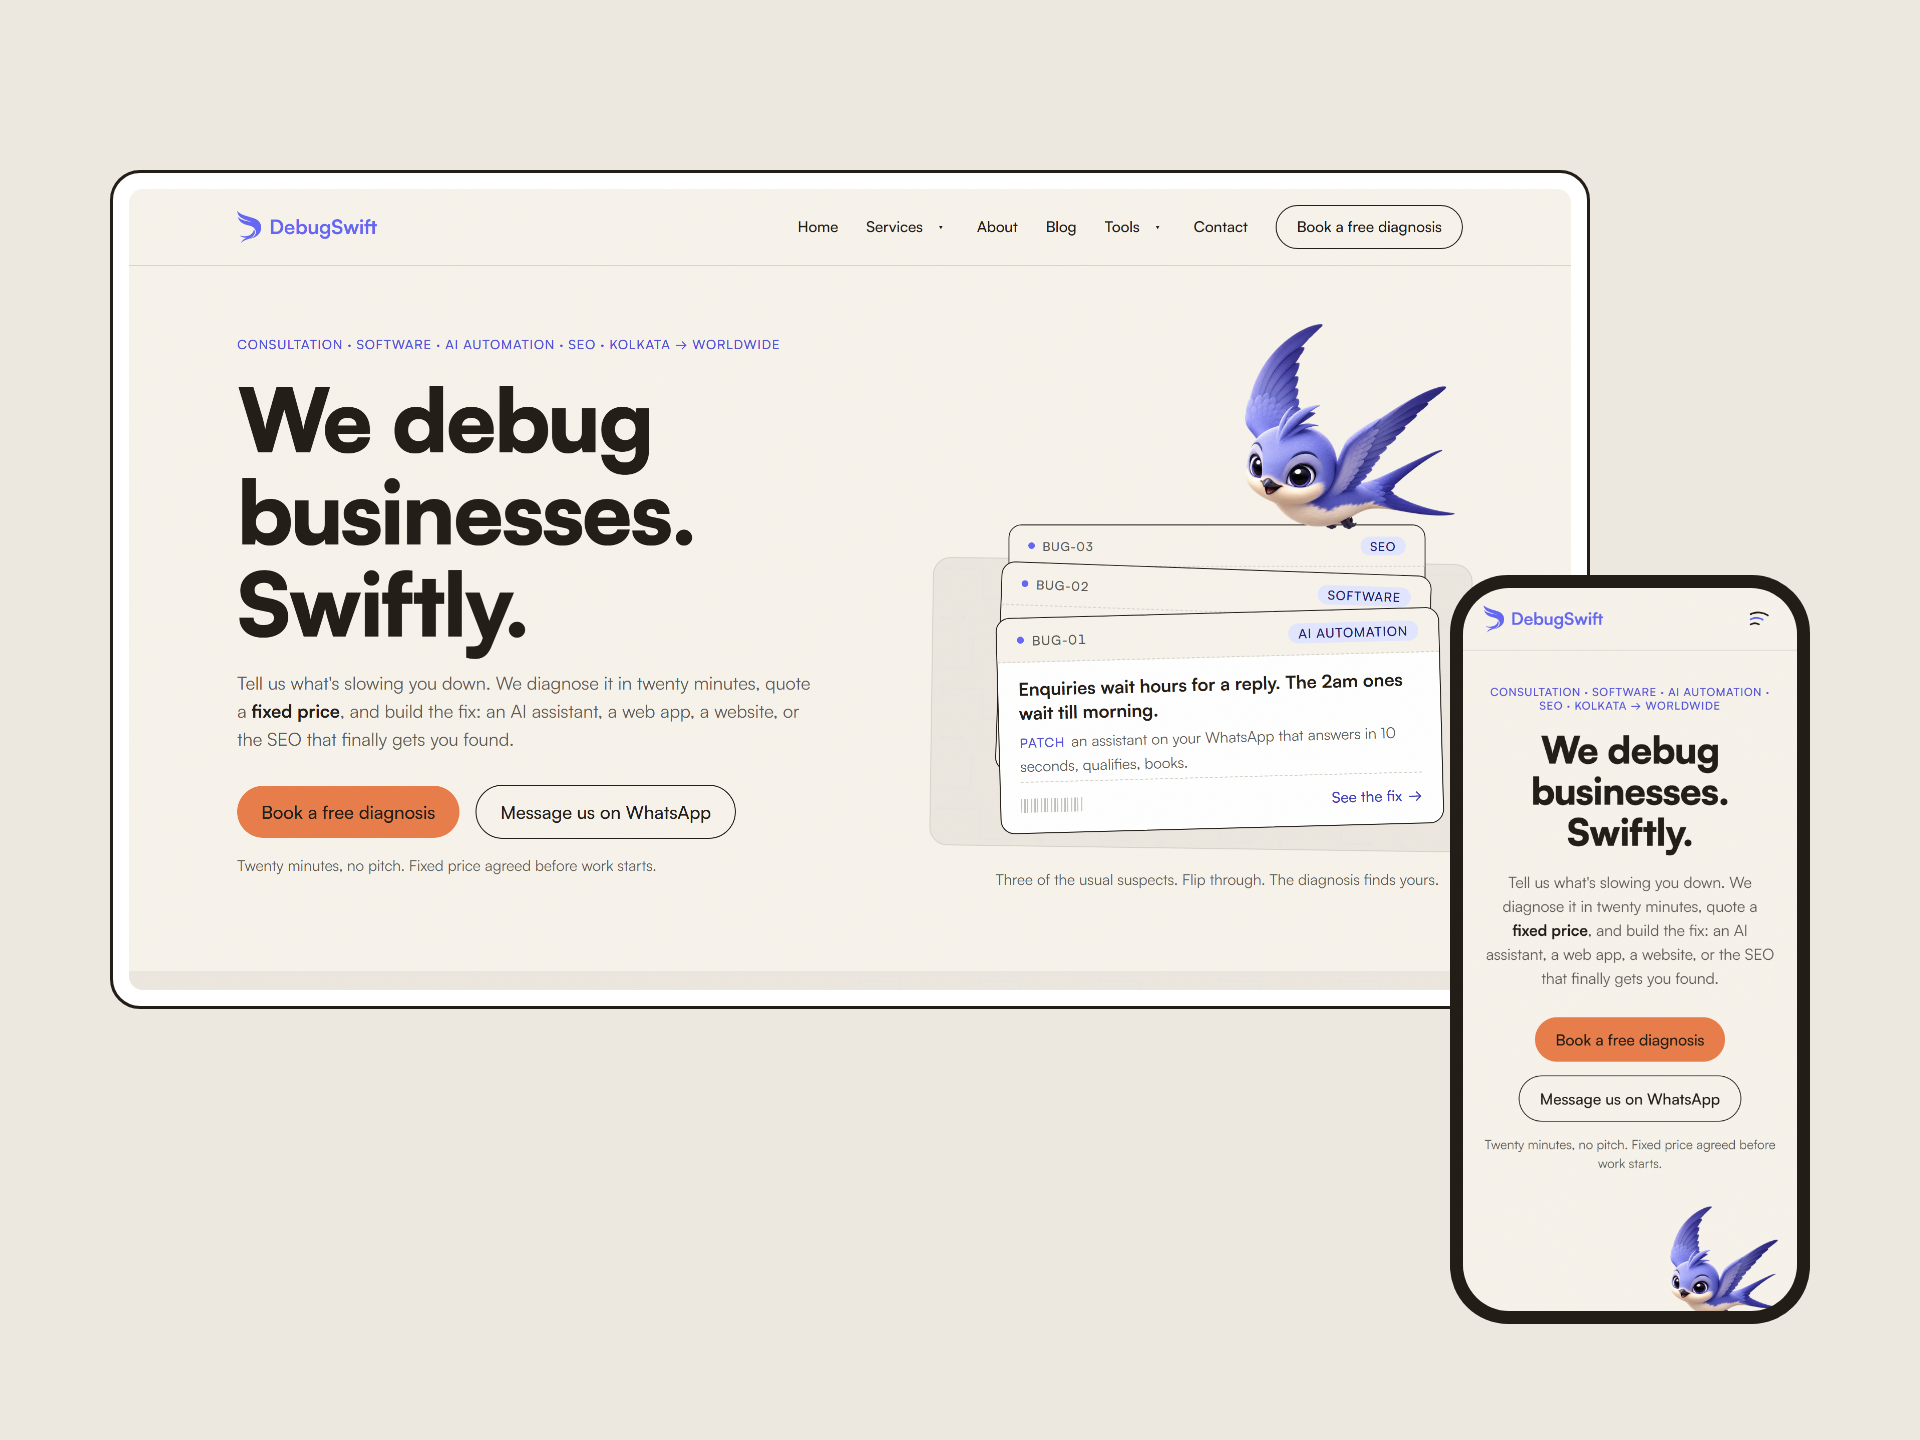
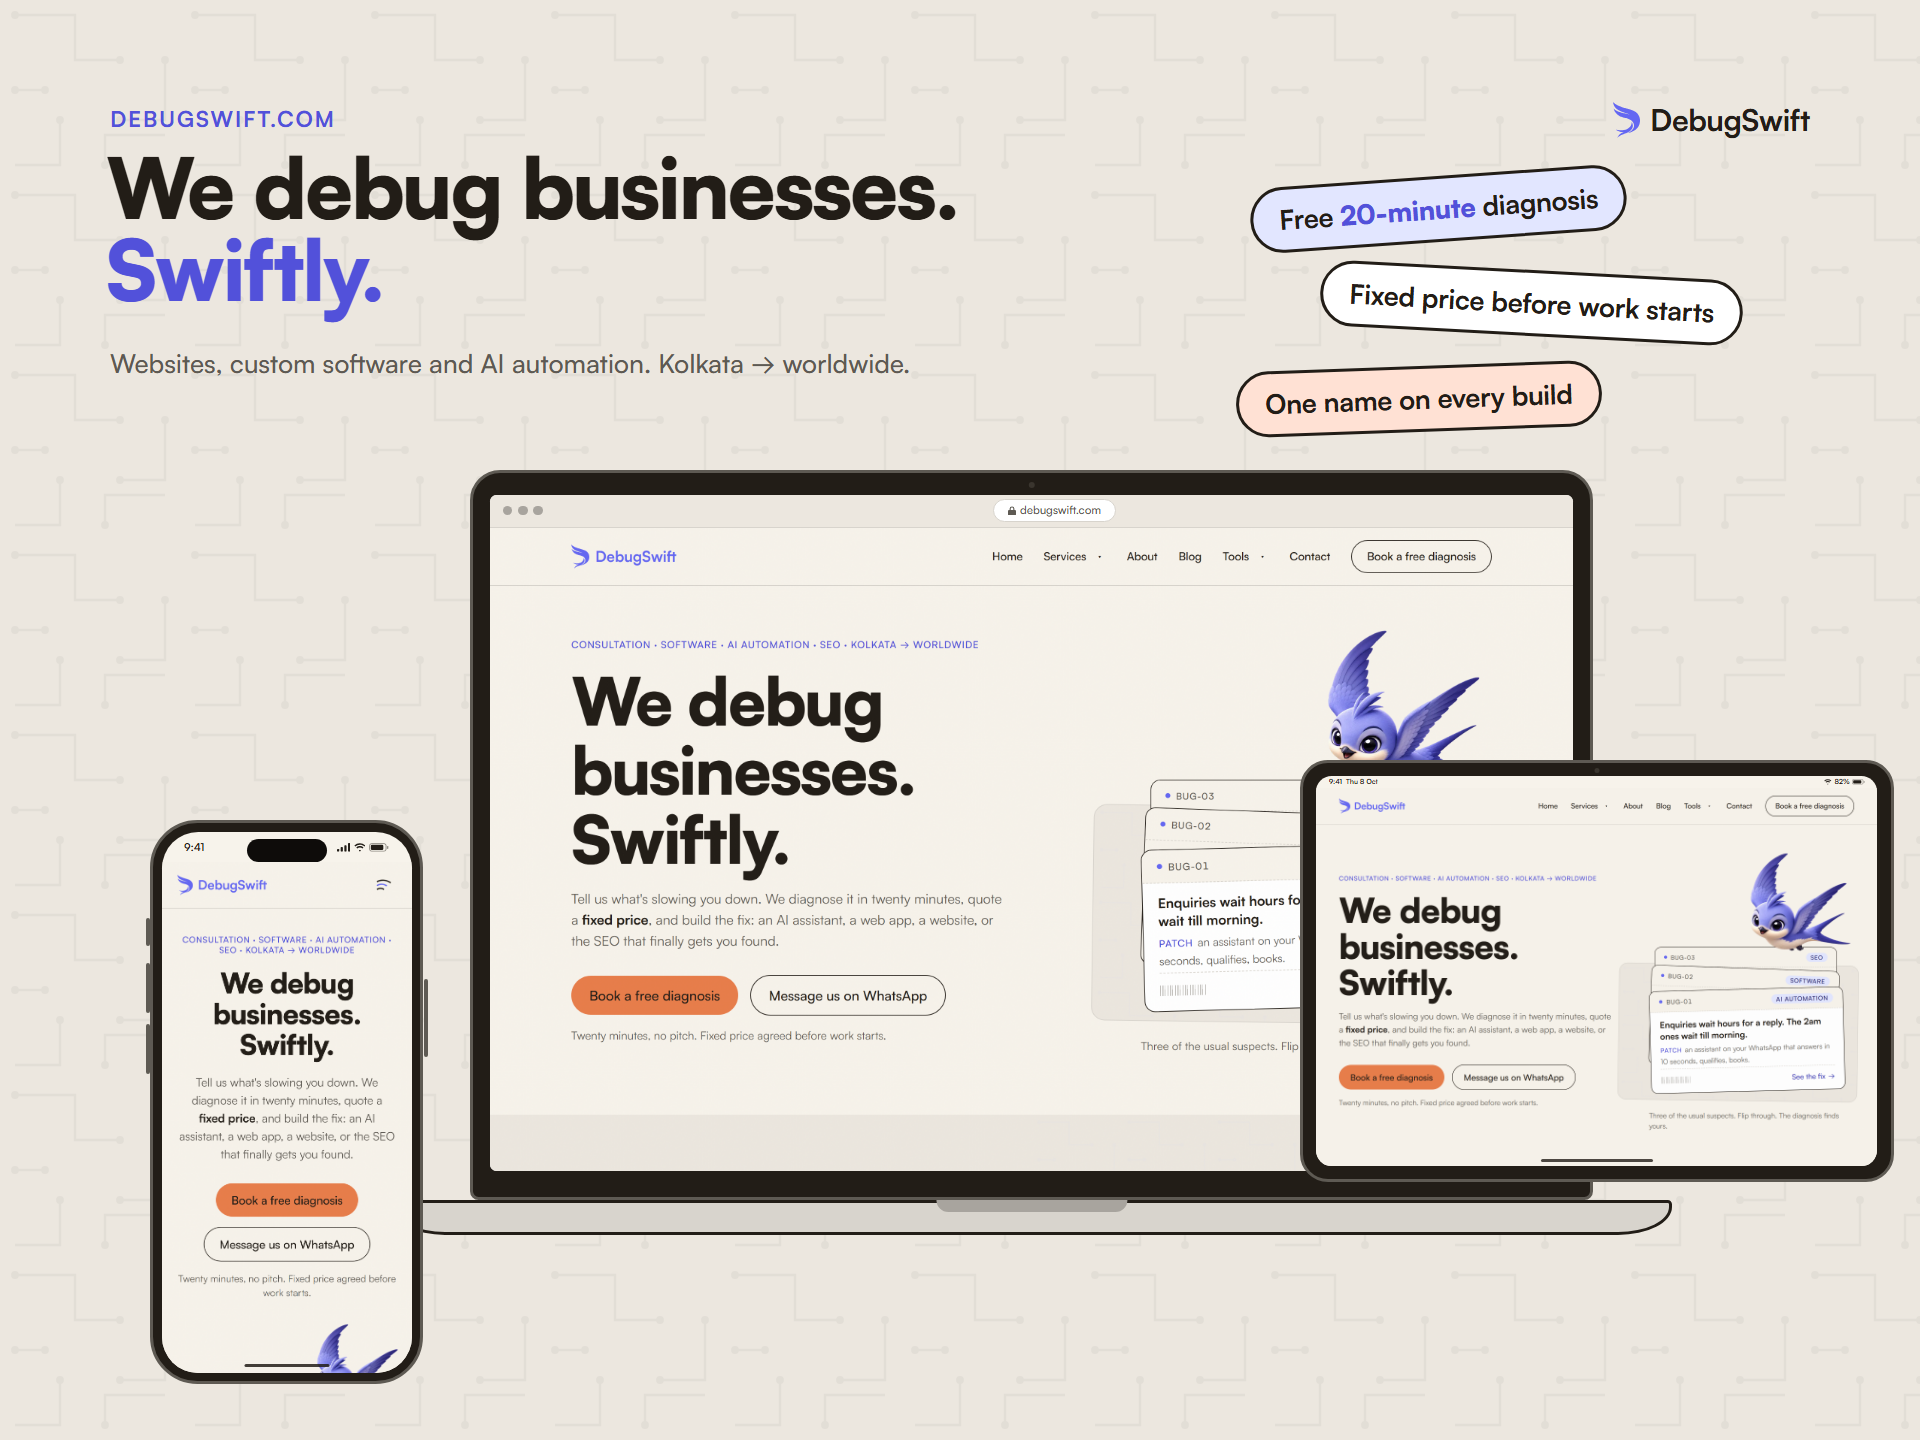
Showcase: laptop, tablet and phone, with realistic device detail

Changed region(s): [[0.0312, 0.0625, 1.0, 0.9688], [0.8438, 0.0625, 0.9375, 0.0938]]

diff --git a/README.md b/README.md
@@ -6,7 +6,7 @@
 
 The website of DebugSwift, a founder-led technology agency in Kolkata. We understand a business, find the problem costing it most, and fix it with technology.
 
-![debugswift.com on desktop and phone](assets/showcase.png)
+![debugswift.com on a laptop, a tablet and a phone](assets/showcase.png)
 
 ## What we do
 
